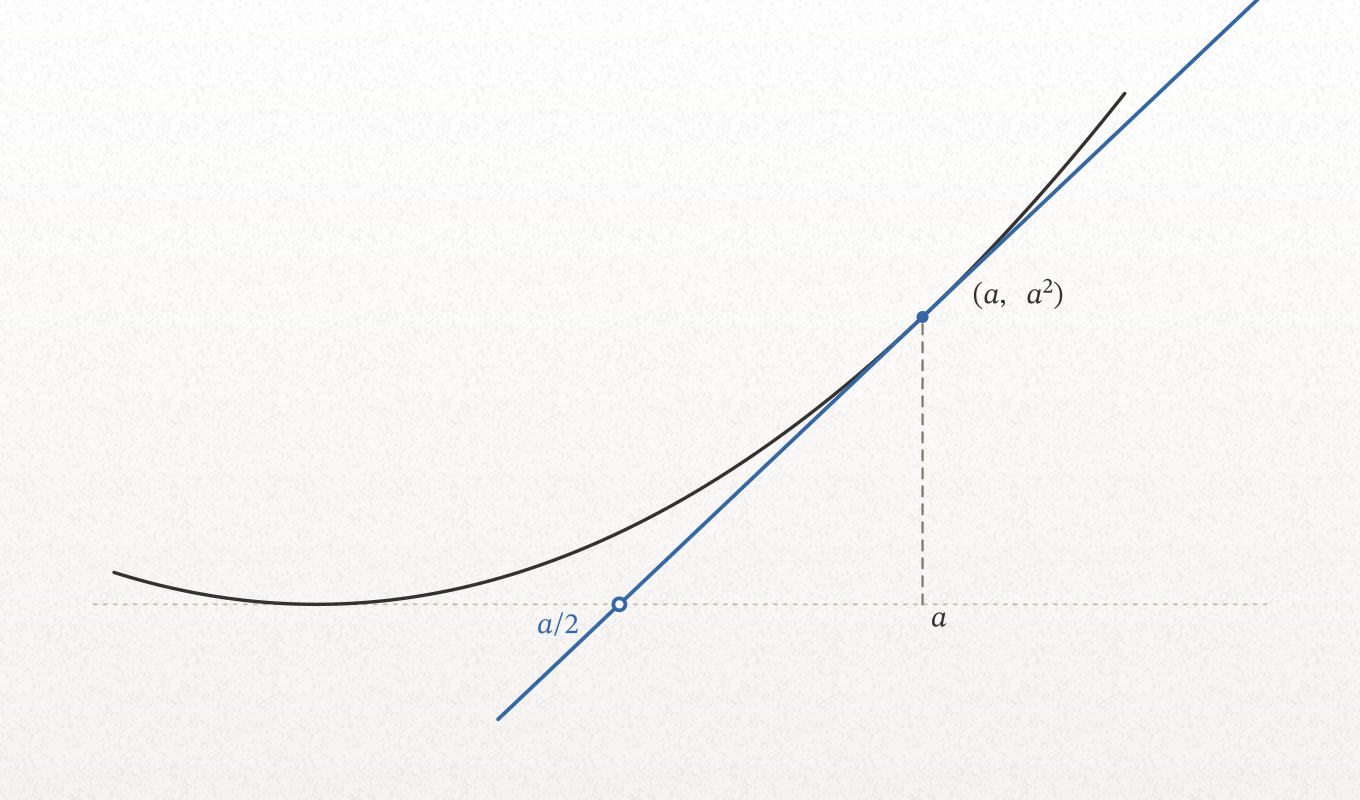
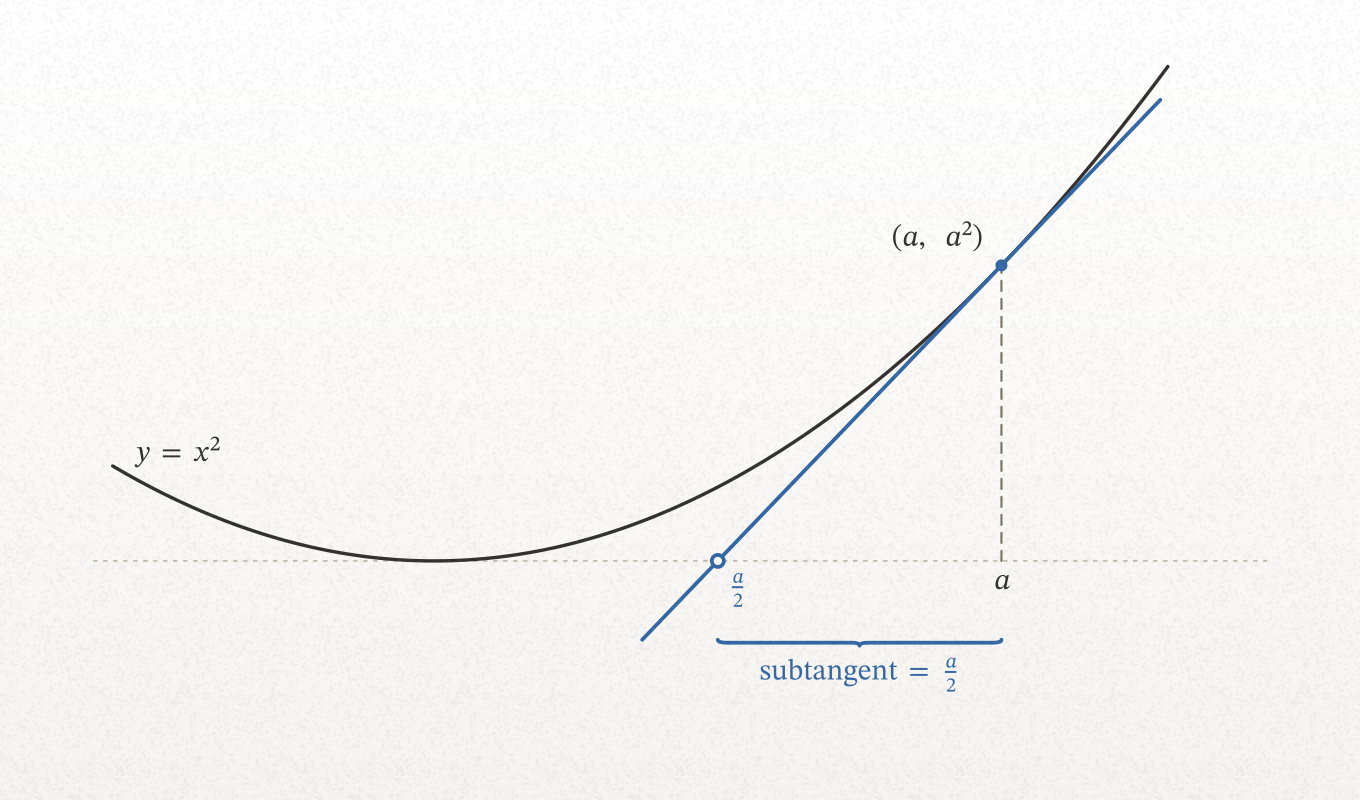
readme: lead with the skill, and show what the library actually draws
The page argued that figlib is a compiler with a design procedure attached.
True, and not the point. The product is a skill an agent loads plus the
library that skill writes against — ask any coding agent for a figure today
and you get a matplotlib script that runs, produces a picture, and cannot
tell you whether the arrowhead points the right way. The agent can't tell
either; it never sees the render. So the page now opens on reason / build /
verify, and ends that section where the argument actually lands: nothing
else in an agent's toolchain closes the loop between "I drew it" and "it
says what I meant".

Added the section the page was missing entirely — what the library draws.
Ten rows, module named on each: plane geometry, fields and flows, data
plots, 3D surfaces, multi-panel pages with a measured correspondence
residual, schematics, matrices, tensor networks whose einsum spec is
derived from the drawing, derivations, word-scale insets. A landing page
for a library that never lists its capabilities is a landing page for an
essay.

Install is now the skill install — uv tool, then symlinks into
~/.claude/skills and ~/.codex/skills, symlinks rather than copies so the
repo stays the single source. Commands lead with the standalone `figcheck`
form, since that is what runs in a host project; the make targets follow
for work inside this repo.

Also rebuilt the quickstart figure, which had the alignment defects you'd
[…]

diff --git a/docs/examples/first_figure.py b/docs/examples/first_figure.py
@@ -9,7 +9,7 @@ runner every other figure uses, so the README cannot drift into fiction.
 import numpy as np
 
 from figlib.format import COLUMN
-from figlib.scene import Curve, MathLabel, Point, Scene
+from figlib.scene import Brace, Curve, MathLabel, Point, Scene
 from figlib.style import Role
 from figlib.theme import RISO
 
@@ -29,14 +29,18 @@ is exactly the part a formula states without showing.
 FORMAT = COLUMN
 THEME = RISO
 
-PARAMS = {"a": 1.5, "xlim": (-0.55, 2.35), "ylim": (-1.1, 4.3),
-          "curve_x": (-0.5, 2.0), "reach": 1.05, "height_px": 400}
+PARAMS = {"a": 1.5, "xlim": (-0.9, 2.2), "ylim": (-1.4, 3.85),
+          "curve_x": (-0.85, 1.94), "reach": (0.95, 0.42), "height_px": 400,
+          "brace_y": -0.6}
 
 
 def compute(p):
-    a, r = p["a"], p["reach"]
+    a, lo_r, hi_r = p["a"], *p["reach"]
     x = np.linspace(*p["curve_x"], 400)
-    t = np.array([a - r, a + r])
+    # the drawn tangent stops just past the touch point: past that it runs
+    # alongside the parabola and the eye reads two curves where there is one
+    # line and one curve
+    t = np.array([a - lo_r, a + hi_r])
     return {
         "parabola": np.column_stack([x, x * x]),
         "tangent": np.column_stack([t, 2.0 * a * (t - a) + a * a]),
@@ -46,21 +50,32 @@ def compute(p):
 
 
 def build(g):
-    a = g["p"]["a"]
-    s = Scene(xlim=g["p"]["xlim"], ylim=g["p"]["ylim"],
-              height_px=g["p"]["height_px"])
-    s.add(Curve(np.array([[g["p"]["xlim"][0], 0.0], [g["p"]["xlim"][1], 0.0]]),
+    a, p = g["p"]["a"], g["p"]
+    s = Scene(xlim=p["xlim"], ylim=p["ylim"], height_px=p["height_px"])
+    s.add(Curve(np.array([[p["xlim"][0], 0.0], [p["xlim"][1], 0.0]]),
                 role=Role.FRAME))
     s.add(Curve(g["parabola"], role=Role.CONTENT))
     s.add(Curve(g["tangent"], role=Role.ACCENT1))
     s.add(Curve(np.array([[a, 0.0], list(g["foot"])]), role=Role.CONSTRUCTION))
     s.add(Point(g["foot"], filled=True, role=Role.ACCENT1))
     s.add(Point((a / 2.0, 0.0), filled=False, role=Role.ACCENT1))
-    s.add(MathLabel(r"(a,\,a^2)", g["foot"], ha="left", va="bottom",
-                    offset_px=(6, -4)))
-    s.add(MathLabel(r"a/2", (a / 2.0, 0.0), ha="right", va="top",
-                    offset_px=(-2, 4), role=Role.ACCENT1))
-    s.add(MathLabel(r"a", (a, 0.0), ha="left", va="top", offset_px=(4, 4)))
+
+    # the touch point names itself into the open upper-left, away from both
+    # the tangent and the parabola, which run together to its lower left
+    s.add(MathLabel(r"(a,\,a^2)", g["foot"], ha="right", va="bottom",
+                    offset_px=(-10, -7)))
+    # both abscissae read BELOW the axis, clear of the tangent crossing it --
+    # and a/2 to the RIGHT of its crossing, since below-left is where the
+    # tangent actually runs
+    s.add(MathLabel(r"\tfrac{a}{2}", (a / 2.0, 0.0), ha="left", va="top",
+                    offset_px=(7, 6), role=Role.ACCENT1))
+    s.add(MathLabel(r"a", (a, 0.0), ha="center", va="top", offset_px=(0, 7)))
+    # the claim as a LENGTH, not a coordinate: what the figure is for
+    s.add(Brace((a / 2.0, p["brace_y"]), (a, p["brace_y"]), side=-1.0,
+                label=r"\text{subtangent} = \tfrac{a}{2}",
+                role=Role.ACCENT1))
+    s.add(MathLabel(r"y = x^2", (g["parabola"][0][0], g["parabola"][0][1]),
+                    ha="left", va="center", offset_px=(11, -7)))
     return s
 
 

diff --git a/README.md b/README.md
@@ -2,13 +2,16 @@
   <img src="docs/brand/wordmark.png" alt="figlib — figures as gated programs" width="420">
 </p>
 
-<p align="center"><b>The procedure that decides what to draw, and the compiler that checks what got drawn.</b></p>
+<p align="center"><b>An agent skill for scientific figures — and the library it draws with.</b><br>
+<sub>Reason about what to draw, build it as a program, prove it says what it claims.</sub></p>
 
 <p align="center">
+  <a href="#install-the-skill">Install</a> ·
+  <a href="#what-the-library-draws">What it draws</a> ·
   <a href="#quickstart">Quickstart</a> ·
-  <a href="#gallery">Gallery</a> ·
   <a href="#what-gets-decided-before-any-code">How it decides</a> ·
   <a href="#what-the-compiler-checks">What it checks</a> ·
+  <a href="#gallery">Gallery</a> ·
   <a href="docs/skill.md">Docs</a>
 </p>
 
@@ -21,78 +24,120 @@ The graph of 1/(1+x²) is the tranquil real slice of a surface that erupts at z 
 
 ---
 
-A plotting library starts work after the two decisions that determine whether
-the figure was worth making: **what to draw**, and **whether what got drawn is
-true**. matplotlib will cheerfully render an arrowhead pointing the wrong way,
-at 6 pt, in a yellow that vanishes on the page. It has no opinion, because it
-was never told what the picture is supposed to argue.
+Ask a coding agent for a figure today and you get a matplotlib script. It
+will run, it will produce a picture, and nothing in the loop can tell you
+whether the arrowhead points the right way, whether the type is legible at
+the size it will be read, or whether the picture argues the thing you meant.
+The agent can't tell either — it never sees the render.
 
-figlib is the layer above. Two halves, and both are load-bearing:
+figlib is the missing loop. It is a **skill an agent loads** plus **the
+library that skill writes against**, and together they make a figure something
+a model can reason about, build, and verify:
 
-- **A design procedure** — ten steps, run before any code, that turn "I need a
-  figure of X" into a claim, a representation, a page slot, a reading order,
-  and a gate plan. This is the part that decides quality, and it is written to
-  be executed by a model, not admired by a human.
-- **A compiler** — the figure is a program that computes its own geometry and
-  declares assertions about it. `compute → build → autoplace → gates → render`
-  emits SVG and PNG, and refuses to emit anything that fails.
+- **Reason.** A ten-step design procedure runs *before* any code — earn the
+  figure, name the claim, pick the representation and the abstraction rung,
+  script the read, assign the perceptual channels, plan the gates. It is
+  written as prompts, so it costs a model almost nothing to run every time.
+- **Build.** A figure is a program: `compute → build → autoplace → gates →
+  render`. Curves and fields, 3D surfaces, multi-panel pages, schematics,
+  matrices, tensor diagrams, derivations — all in one scene model, so every
+  gate and every theme applies to all of it.
+- **Verify.** The program declares assertions about the arrays it plotted.
+  Layout, colour and contrast are checked mechanically, and each failure comes
+  back as a *computed fix* — `offset_px += (+0, -13)`, not "labels overlap".
+  Then a second agent, given only the PNG and no context, says what the figure
+  claims. If that misses the claim, the figure is wrong however pretty it is.
 
-The loop closes because every gate returns a *computed fix* rather than a
-complaint, and the last gate is a second model reading the PNG cold. An agent
-can drive the whole thing — propose, check, repair, verify by re-reading —
-without a human in the middle deciding whether the picture looks right.
+That last step is the point. Nothing else in an agent's toolchain closes the
+loop between "I drew it" and "it says what I meant."
 
-It ships as the `scientific-figures` skill, so the procedure travels with the
-library into any project on the machine.
-
-## Install
+## Install the skill
 
 Python 3.12+, [uv](https://docs.astral.sh/uv/), and cairo.
 
 ```bash
-brew install cairo          # or your platform's cairo
+brew install cairo                                     # or your platform's
 git clone https://github.com/Nirtzur0/figlib && cd figlib
 uv sync && make test
+
+uv tool install --editable .                           # figcheck on PATH
+
+SKILL=~/.claude/skills/scientific-figures                # or ~/.codex/skills/…
+mkdir -p "$SKILL/references"
+ln -s "$PWD/docs/skill.md" "$SKILL/SKILL.md"
+ln -s "$PWD/docs/"{architecture,grammar,exposition,corpus-study}.md \
+      "$SKILL/references/"
 ```
 
-To author figures from *other* projects without those projects depending on
-figlib, install the checker as a standalone tool — `figcheck` then loads a
-figure program into its own environment and writes next to it:
+Symlinks, not copies: the repo stays the single source, so a change to the
+design step reaches every project on the machine the moment it is committed.
 
-```bash
-uv tool install --editable .
-```
+The host project takes **no dependency on figlib** — `figcheck` loads a figure
+program into its own environment and writes the artifacts next to it. So the
+skill works in a paper repo, a blog, a lecture course, a notebook project:
+ask for a figure, and one lands in `figures/`, gated, with its baselines and
+its readback record.
+
+<sub>On macOS, cairo needs `DYLD_FALLBACK_LIBRARY_PATH=/opt/homebrew/lib`;
+wrap `~/.local/bin/figcheck` in two lines that export it, or the render dies
+with an opaque error. The Makefile does this for you inside the repo.</sub>
+
+## What the library draws
+
+One scene model underneath all of it. **New capability enters as a producer of
+scene items, never as a new renderer** — which is why a gate written once
+applies to a phase portrait, a transformer schematic and an einsum diagram
+alike, and why one theme edit restyles every figure ever written.
+
+| | what it gives you | module |
+|---|---|---|
+| **Plane geometry** | curves, filled regions with grain and gradients, points, vectors, braces, callouts, raster fields | `scene` |
+| **Fields and flows** | streamlines from a stream function, level ladders, stagnation points, phase portraits | `builders`, `geometry` |
+| **Data plots** | axes with linear/log scales, series, bands, colorbars — as scene items, so the gates still apply | `plots` |
+| **3D surfaces** | orthographic projection to depth-sorted 2D, chromatic light→shadow ramps in OKLCh, labels anchored in 3-space | `surface3d`, `sphere3d`, `shading` |
+| **Multi-panel pages** | Panel/Connector grammar, plus a *declared* correspondence whose residual is measured — if two things differ between panels, the reader can't attribute either | `figure`, `correspond` |
+| **Schematics** | typed Node/Port/Edge with a ranked layout pass — transformer blocks, circuits, pipelines | `schematic` |
+| **Matrices** | blocks drawn at their own aspect ratio, structure and value encoders, expression rows, shape gates | `matrix` |
+| **Tensor networks** | einsum as a Penrose diagram — and the spec is *derived from the drawing*, then gated against `np.einsum` | `tensor` |
+| **Derivations** | annotated rows: terms at real typeset widths, operators midway, sans glosses hung beneath | `derivation` |
+| **Word-scale insets** | a whole scene affinely embedded in another scene's coordinates | `inset` |
+
+Type is real math: LaTeX through ziamath, with exact metrics, so the collision
+gate measures the glyphs the renderer draws rather than an estimate of them.
 
 ## Quickstart
 
-A figure is one module. This is the whole of
-[`docs/examples/first_figure.py`](docs/examples/first_figure.py) — nothing
-elided:
+A figure is one module — the contract an agent writes to. This is
+[`docs/examples/first_figure.py`](docs/examples/first_figure.py), trimmed only
+of its prose:
 
 ```python
 CLAIM = ("The tangent to y = x^2 at x = a meets the axis at a/2 — the "
          "subtangent is half the abscissa, for every a.")
 
-EXPOSITION = """..."""             # the passage this figure is FOR
+EXPOSITION = """..."""             # the passage this figure is FOR, ≥40 words
+                                   # written BEFORE the code, and gated
 
 FORMAT = COLUMN                    # MARGIN 340 | COLUMN 680 | WIDE 1000 px
 THEME  = RISO
-PARAMS = {"a": 1.5, "xlim": (-0.55, 2.35), ...}   # no magic numbers below
+PARAMS = {"a": 1.5, "xlim": (-0.9, 2.2), ...}     # no magic numbers below
 
 def compute(p):                    # numerics -> arrays. No drawing decisions.
-    a, r = p["a"], p["reach"]
+    a, lo, hi = p["a"], *p["reach"]
     x = np.linspace(*p["curve_x"], 400)
-    t = np.array([a - r, a + r])
+    t = np.array([a - lo, a + hi])
     return {"parabola": np.column_stack([x, x * x]),
             "tangent":  np.column_stack([t, 2.0 * a * (t - a) + a * a]),
             "foot": (a, a * a), "p": p}
 
-def build(g):                      # arrays -> Scene. Roles, never colors.
+def build(g):                      # arrays -> Scene. Roles, never colours.
     s = Scene(xlim=..., ylim=..., height_px=400)
     s.add(Curve(g["parabola"], role=Role.CONTENT))
     s.add(Curve(g["tangent"],  role=Role.ACCENT1))
     s.add(Point(g["foot"], filled=True, role=Role.ACCENT1))
-    s.add(MathLabel(r"a/2", (a / 2.0, 0.0), ha="right", va="top"))
+    s.add(MathLabel(r"(a,\,a^2)", g["foot"], ha="right", va="bottom"))
+    s.add(Brace((a / 2, -0.6), (a, -0.6), side=-1.0,   # the claim, as a LENGTH
+                label=r"\text{subtangent} = \tfrac{a}{2}"))
     return s
 
 def assertions(g):                 # the gate, on the arrays that got drawn
@@ -102,13 +147,13 @@ def assertions(g):                 # the gate, on the arrays that got drawn
 ```
 
 ```
-$ make check F=docs/examples/first_figure.py
+$ figcheck docs/examples/first_figure.py
 
 [PASS] first_figure: The tangent to y = x^2 at x = a meets the axis at a/2 …
   svg: docs/examples/out/first_figure.svg
   png: docs/examples/out/first_figure.png
-  placed: '(a,\,a^2)' offset_px += (+19, +0)
-  placed: 'a/2' offset_px += (-19, +0)
+  placed: '\tfrac{a}{2}' offset_px += (+3, +0)
+  clearance: tightest labels 'y = x^2' 2.2px, '\tfrac{a}{2}' 6.3px
 ```
 
 <p align="center">
@@ -141,11 +186,13 @@ The shape of it:
 | **8 · honesty** | what the depiction lies about — truncated infinities, selected seeds, unequal panel scales — plus the accidental assertions layout makes for free. |
 | **9 · gate plan** | which numerical assertions certify the geometry, and what the cold readback should say. |
 
-This is the part that isn't a plotting library. Steps 0 and 1 routinely
-conclude that the figure should not exist; step 2 is where a good figure and a
-competent one diverge; step 8 is the one nobody does by hand. Encoded as
-prompts, they are cheap to run every time, which is the only reason they get
-run at all.
+This is the half no plotting library has, and the half that decides quality.
+Steps 0 and 1 routinely conclude the figure should not exist; step 2 is where
+a good figure and a competent one diverge; step 8 is the one nobody does by
+hand. A person runs this once, on the figure they care about. An agent runs it
+on every figure, because as prompts it costs almost nothing — which is the
+whole argument for putting the procedure in the skill rather than in a style
+guide someone might read.
 
 ## What the compiler checks
 
@@ -173,6 +220,18 @@ shouldn't silently fix — a pinned label whose position *is* meaning, a move
 past the 24 px budget, which is a design defect wearing a layout defect's
 clothes.
 
+The last gate is the one that can't be computed. `figcheck --readback-prompt`
+emits a prompt for a **second agent that has never seen the claim, the code or
+the conversation** — only the PNG. It says what the figure asserts, what it
+can read off, and what confused it. Every confusion bullet is design review:
+fix it, or write down why you accepted it. The record lands in
+`<name>.readback.md` beside the baselines, and a figure without one is not
+done.
+
+That is the closed loop. Design → program → computed repairs → an independent
+reader. An agent can run all four without a human in the middle deciding
+whether the picture looks right.
+
 ## Semantics, not appearance
 
 `Role.CONTENT`, `theme.ramp(t)`, `theme.categorical(i)`, `theme.surface_shade(t)`.
@@ -194,6 +253,11 @@ background. `figcheck` checks both unconditionally, because a contrast gate
 only earns its keep on a ground that is actually there.
 
 ## Gallery
+
+Every figure below came out of that loop — designed against the ten steps,
+declared as a program, gated, and read back cold by an agent that saw only the
+picture. The readback records are committed next to the baselines, confusions
+and all.
 
 <!-- gallery:start -->
 
@@ -285,6 +349,21 @@ only earns its keep on a ground that is actually there.
 
 ## Commands
 
+In any project, through the installed tool:
+
+```
+figcheck figures/x.py                render + every gate, exit 1 on failure
+         --report                    + a textual layout inventory
+         --zoom x0,y0,x1,y1:4        a magnified crop, for judging detail
+         --readback-prompt           the prompt for the cold-reader agent
+         --transparent               ink on alpha instead of the stock
+figcheck --regress --figures-dir figures    golden diff over THIS project
+figcheck --update  --figures-dir figures    refresh its baselines
+```
+
+Inside this repo, use the make targets — they cover the corpus and export
+cairo's library path, which a bare `uv run figcheck` misses:
+
 ```
 make test                            pytest
 make check F=figures/optim/x.py      render + every gate, exit 1 on failure
@@ -296,9 +375,6 @@ make gallery                         regenerate GALLERY.md + this README grid
 make brand                           redraw the wordmark, mark and social card
 ```
 
-The Makefile exports cairo's library path; a bare `uv run figcheck` misses it
-and fails opaquely.
-
 ## Layout
 
 ```
@@ -308,11 +384,14 @@ figures/<subject>/*.py
                 the corpus: complex · signals · linalg · dynamics · optim ·
                 probability · statmech · infotheory · circuits
 figures/out/    committed render baselines, both grounds, plus readback records
-docs/           skill.md (how to write a figure) · architecture.md (the stack,
-                and the design step) · grammar.md · exposition.md
+docs/skill.md   THE skill — symlinked into ~/.claude/skills and ~/.codex/skills
+docs/           architecture.md (the stack and the design step) · grammar.md
+                (visual rules, each with the failure that justifies it) ·
+                exposition.md (why the design step is what it is)
                 brand/ — the wordmark and social card, drawn by the library
                 they brand (same ink, same grain, same math face)
 tests/
 ```
 
-Start at [`docs/skill.md`](docs/skill.md). It is short, and it is the contract.
+Start at [`docs/skill.md`](docs/skill.md). It is short, it is the contract, and
+it is the file your agent actually loads.
